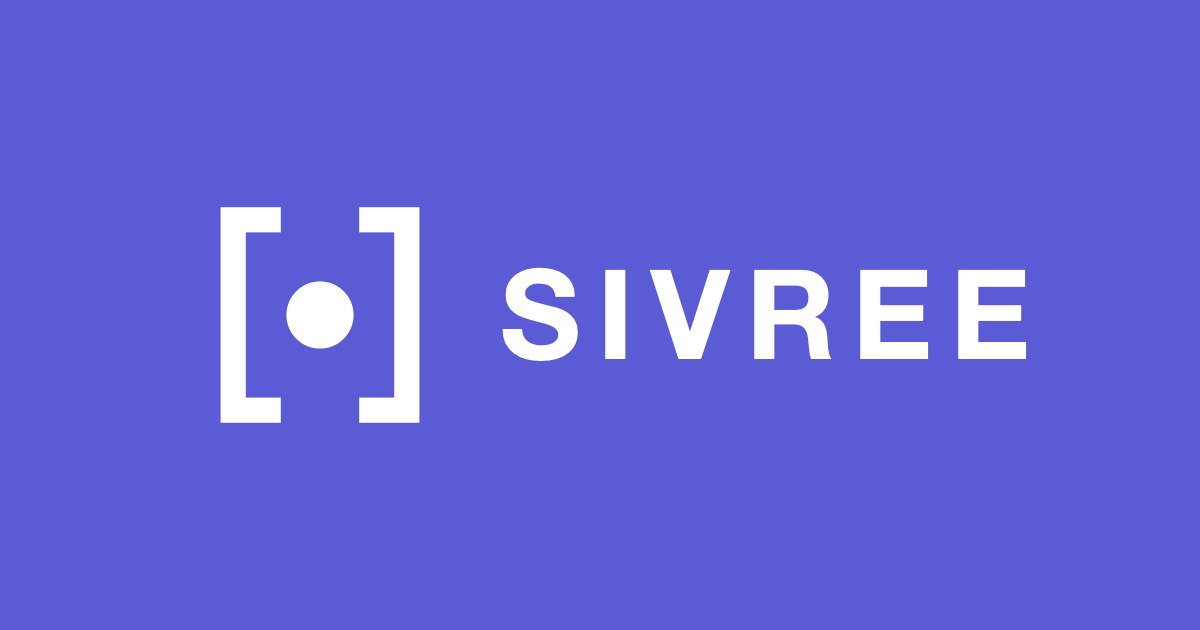
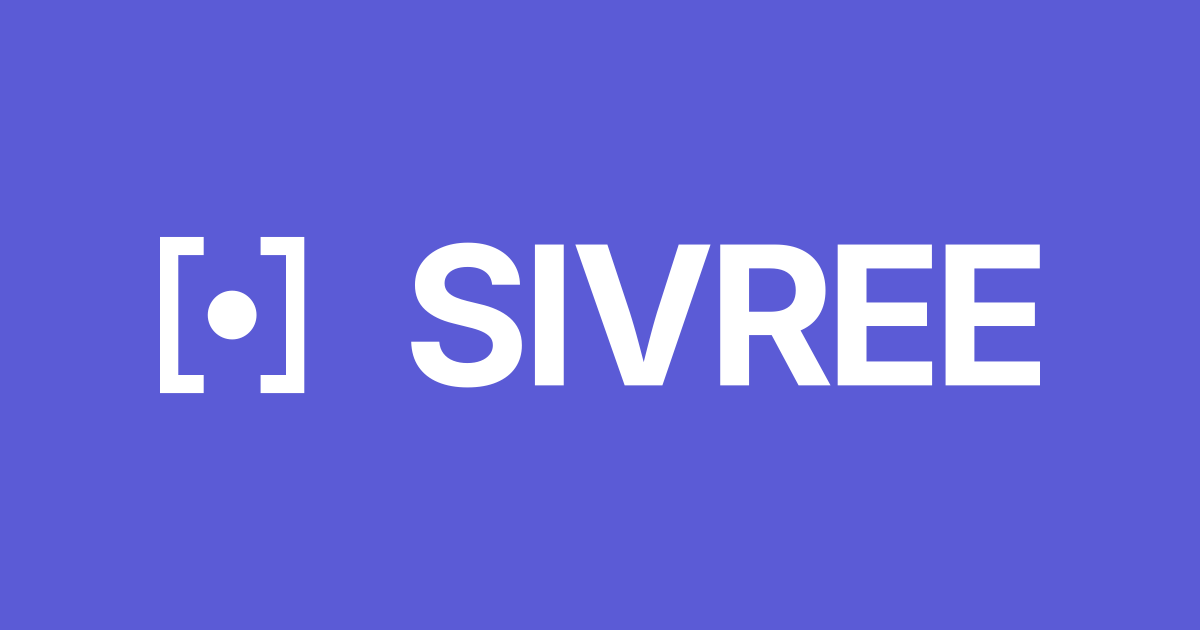
Add outlined SIVREE logotype to the header and share image
Outline SIVREE from Inter 700 (upright, -0.03em tracking plus per-pair
adjustments recorded in BRAND.md) and use it in the header in place of
the system-font text, keeping a visually hidden "Sivree" for screen
readers. Add black/white wordmark and lockup SVGs, rebuild the share
image with the lockup, and add brand/build-wordmark.mjs to regenerate
them.

Validation: all 17 pre-commit checks passed; header checked in the local
preview in light, dark and mobile widths.

Changed region(s): [[0.1233, 0.3016, 0.8942, 0.6937]]

diff --git a/public/index.html b/public/index.html
@@ -38,7 +38,8 @@
           <span id="today" class="brand-date"></span>
           <span class="brand-title">
             <svg class="brand-mark" viewBox="0 0 100 100" aria-hidden="true" focusable="false"><path d="M36 16H19V84H36M64 16H81V84H64" /><circle cx="50" cy="50" r="12" /></svg>
-            <span class="brand-name" lang="en">Sivree</span>
+            <svg class="brand-wordmark" viewBox="0 0 3248.5 748" aria-hidden="true" focusable="false"><path d="M291.0 748.0L291.0 748.0Q203.6 748.0 138.9 721.2Q74.2 694.3 38.1 641.6Q2.0 588.9 0 511.7L0 511.7L145.0 511.7Q147.9 548.3 167.0 573.0Q186.0 597.7 217.8 609.9Q249.5 622.1 289.6 622.1L289.6 622.1Q329.6 622.1 359.1 610.6Q388.7 599.1 405.3 578.1Q421.9 557.1 421.9 529.3L421.9 529.3Q421.9 504.4 407.0 487.5Q392.1 470.7 364.3 458.5Q336.4 446.3 296.4 437.0L296.4 437.0L216.3 417.0Q124.0 394.5 71.8 346.4Q19.5 298.3 19.5 219.2L19.5 219.2Q19.5 153.3 54.9 104.0Q90.3 54.7 152.1 27.3Q213.9 0 293.0 0L293.0 0Q373.5 0 433.6 27.6Q493.7 55.2 527.3 104.2Q561.0 153.3 562.0 217.3L562.0 217.3L418.0 217.3Q414.1 173.3 380.6 149.4Q347.2 125.5 291.5 125.5L291.5 125.5Q253.9 125.5 227.1 136.2Q200.2 147.0 186.3 166.0Q172.4 185.1 172.4 209.5L172.4 209.5Q172.4 236.3 188.5 254.2Q204.6 272.0 231.4 283.0Q258.3 293.9 288.6 301.3L288.6 301.3L354.5 317.4Q400.4 327.6 439.9 345.2Q479.5 362.8 509.3 388.4Q539.1 414.1 555.4 449.2Q571.8 484.4 571.8 530.3L571.8 530.3Q571.8 596.2 538.6 645.3Q505.4 694.3 442.4 721.2Q379.4 748.0 291.0 748.0ZM639.2 9.8L788.1 9.8L788.1 737.3L639.2 737.3L639.2 9.8ZM1297.7 737.3L1102.9 737.3L848.0 9.8L1013.5 9.8L1129.7 360.8Q1150.7 427.2 1172.2 507.1Q1193.7 586.9 1217.6 681.6L1217.6 681.6L1185.4 681.6Q1208.8 585.9 1229.3 506.6Q1249.8 427.2 1269.8 360.8L1269.8 360.8L1382.1 9.8L1546.7 9.8L1297.7 737.3ZM1745.5 737.3L1596.5 737.3L1596.5 9.8L1880.2 9.8Q1963.2 9.8 2021.3 39.1Q2079.5 68.4 2110.0 121.6Q2140.5 174.8 2140.5 246.6L2140.5 246.6Q2140.5 318.4 2109.5 370.4Q2078.5 422.4 2019.6 450.0Q1960.8 477.5 1876.8 477.5L1876.8 477.5L1684.4 477.5L1684.4 356.9L1852.9 356.9Q1898.8 356.9 1928.1 344.5Q1957.4 332.0 1972.0 307.4Q1986.7 282.7 1986.7 246.6L1986.7 246.6Q1986.7 209.5 1972.0 184.3Q1957.4 159.2 1927.8 146.0Q1898.3 132.8 1852.4 132.8L1852.4 132.8L1745.5 132.8L1745.5 737.3ZM2166.4 737.3L2001.3 737.3L1824.1 406.3L1985.7 406.3L2166.4 737.3ZM2691.1 737.3L2203.3 737.3L2203.3 9.8L2690.1 9.8L2690.1 133.3L2352.2 133.3L2352.2 309.1L2664.7 309.1L2664.7 430.7L2352.2 430.7L2352.2 613.8L2691.1 613.8L2691.1 737.3ZM3248.5 737.3L2760.7 737.3L2760.7 9.8L3247.5 9.8L3247.5 133.3L2909.6 133.3L2909.6 309.1L3222.1 309.1L3222.1 430.7L2909.6 430.7L2909.6 613.8L3248.5 613.8L3248.5 737.3Z" /></svg>
+            <span class="brand-name visually-hidden" lang="en">Sivree</span>
           </span>
         </a>
 

diff --git a/public/styles.css b/public/styles.css
@@ -208,9 +208,14 @@ svg {
   align-items: center;
   gap: 0.4em;
   font-size: 1.45rem;
-  font-weight: 700;
-  letter-spacing: 0.14em;
-  text-transform: uppercase;
+}
+
+/* ロゴタイプ（Inter 700 を図形にしたもの。作り方と字間の値は BRAND.md） */
+.brand-wordmark {
+  width: 3.2485em;
+  height: 0.748em;
+  flex: none;
+  fill: currentColor;
 }
 
 .brand-mark {

diff --git a/CLAUDE.md b/CLAUDE.md
@@ -41,7 +41,7 @@ Live: https://sivree.com/ (GitHub Pages with the custom domain since 2026-10-23;
 - User settings live **only on the client**. No server-side user data, no accounts, **no email digest**. Cross-device = copy/paste, or optional Google Drive appDataFolder sync (needs `CLIENT_ID` in `public/sync.js`).
 - Audience and pricing (2026-10-20): professionals whose work depends on primary sources (consultants, licensed professionals, think-tank researchers). Personal non-business use, educational institutions and charities free; business/organizational use (companies, firms, public research organizations) paid annually per organization, free during beta. Entitlement = signed license key checked on the device, **not** accounts. Details in `PRODUCT.md` / `BACKLOG.md`. Code license: PolyForm Noncommercial 1.0.0 (`LICENSE`). Embedding model pinned to `embeddinggemma:300m` (Gemma terms read; only outputs ship). Per-source terms: `SOURCE_TERMS.md`; the B1 sources (commercial use restricted; 15 on 2026-10-20, 9 more professional ones on 2026-10-23) show **headline + link only** (`titleOnly` on the feed; no description, summary or image); ask permission later based on usage/feedback; press-release wires still to be asked. Trademark: preliminary search clean, nothing filed.
 - Saved articles and citations (2026-10-20): a saved article is a **snapshot in the profile** (`savedItems`: original headline, source name, URL, dates, user note; no description/summary/image, so it is safe for `titleOnly` sources and survives the 30-day archive). Settings reset keeps it; settings paste **merges** it (`SivreeSaved.mergeSavedItems`), never overwrites. Citations use the source's original headline and the **publisher region's** calendar date (`REGION_TIMEZONE` in `public/saved.js`); the user's notes appear only in CSV and RIS. All profile writes in `app.js` go through the serialized `updateProfile`.
-- Logo (2026-10-20): the bracket-and-dot mark plus a capitalized **SIVREE**; the header text stays "Sivree" in the DOM and is capitalized with CSS, and every sentence/UI string keeps "Sivree". Brand colour #5b5bd6 (provisional). Details, asset list and how to regenerate the PNGs: `BRAND.md`.
+- Logo (2026-10-20; logotype 2026-10-29): the bracket-and-dot mark plus **SIVREE** outlined from Inter 700, upright, tight tracking with per-pair values (`BRAND.md`, `brand/build-wordmark.mjs`). The header shows the outlined SVG and keeps a visually hidden "Sivree" in the DOM; every sentence/UI string keeps "Sivree". Brand colour #5b5bd6 (provisional). Details, asset list and how to regenerate the PNGs: `BRAND.md`.
 - Drive sync (2026-10-21, `public/sync.js`): Google's token model gives a token only through a popup opened **synchronously inside a tap** (iPhone blocks it after any `await`), and offers no silent renewal. So GIS is preloaded when sync is on, the token (~1 h) is kept in localStorage. When it expires, a header sync button and a load toast appear, and Save/paste in settings call `SivreeSync.prepare()` so the popup opens in that tap; no popup without a tap. When both devices changed, there is no dialog: a 3-way merge against the last-synced copy (`sivree:sync-base`) runs per field. List fields merge per element, so deletions propagate. A device without a base takes Drive's settings and keeps both devices' saved and hidden items. `test:sync` models the iPhone popup rule.
 - No human reviewers or experts for QA — do review/QA myself and say what I couldn't verify.
 - Primary sources only: no media feeds, no SNS. Honest crawler identity `SivreeBot`; obey robots.txt; don't work around 403s.
